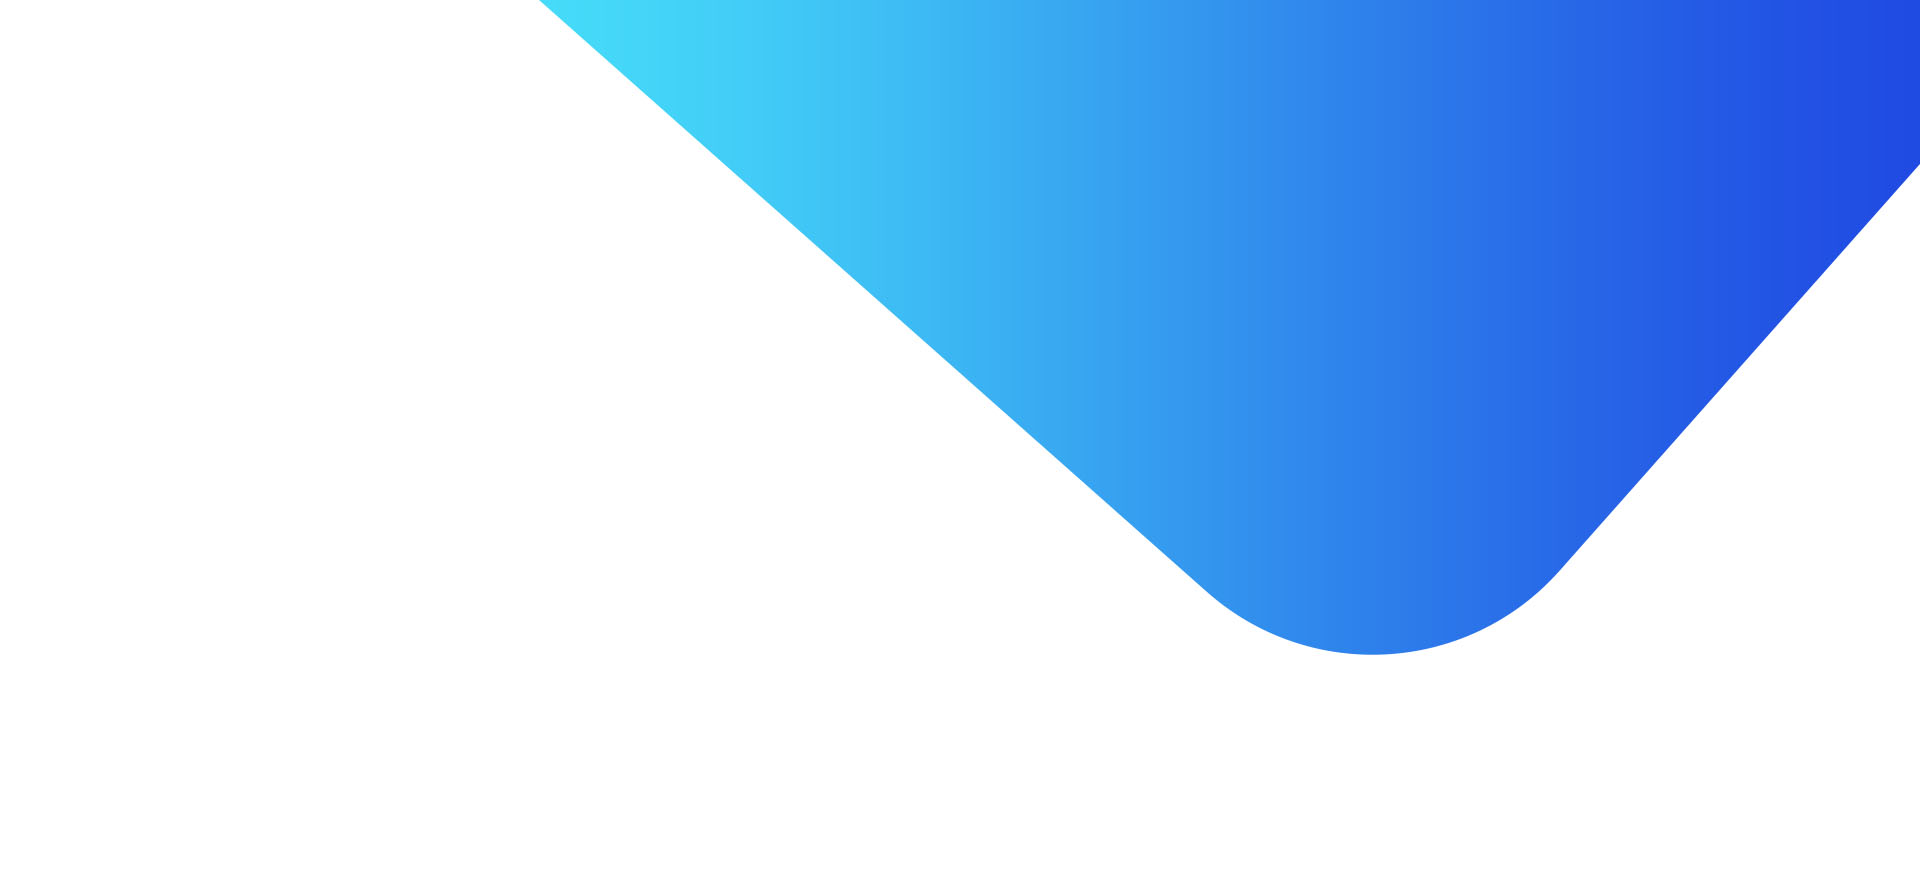
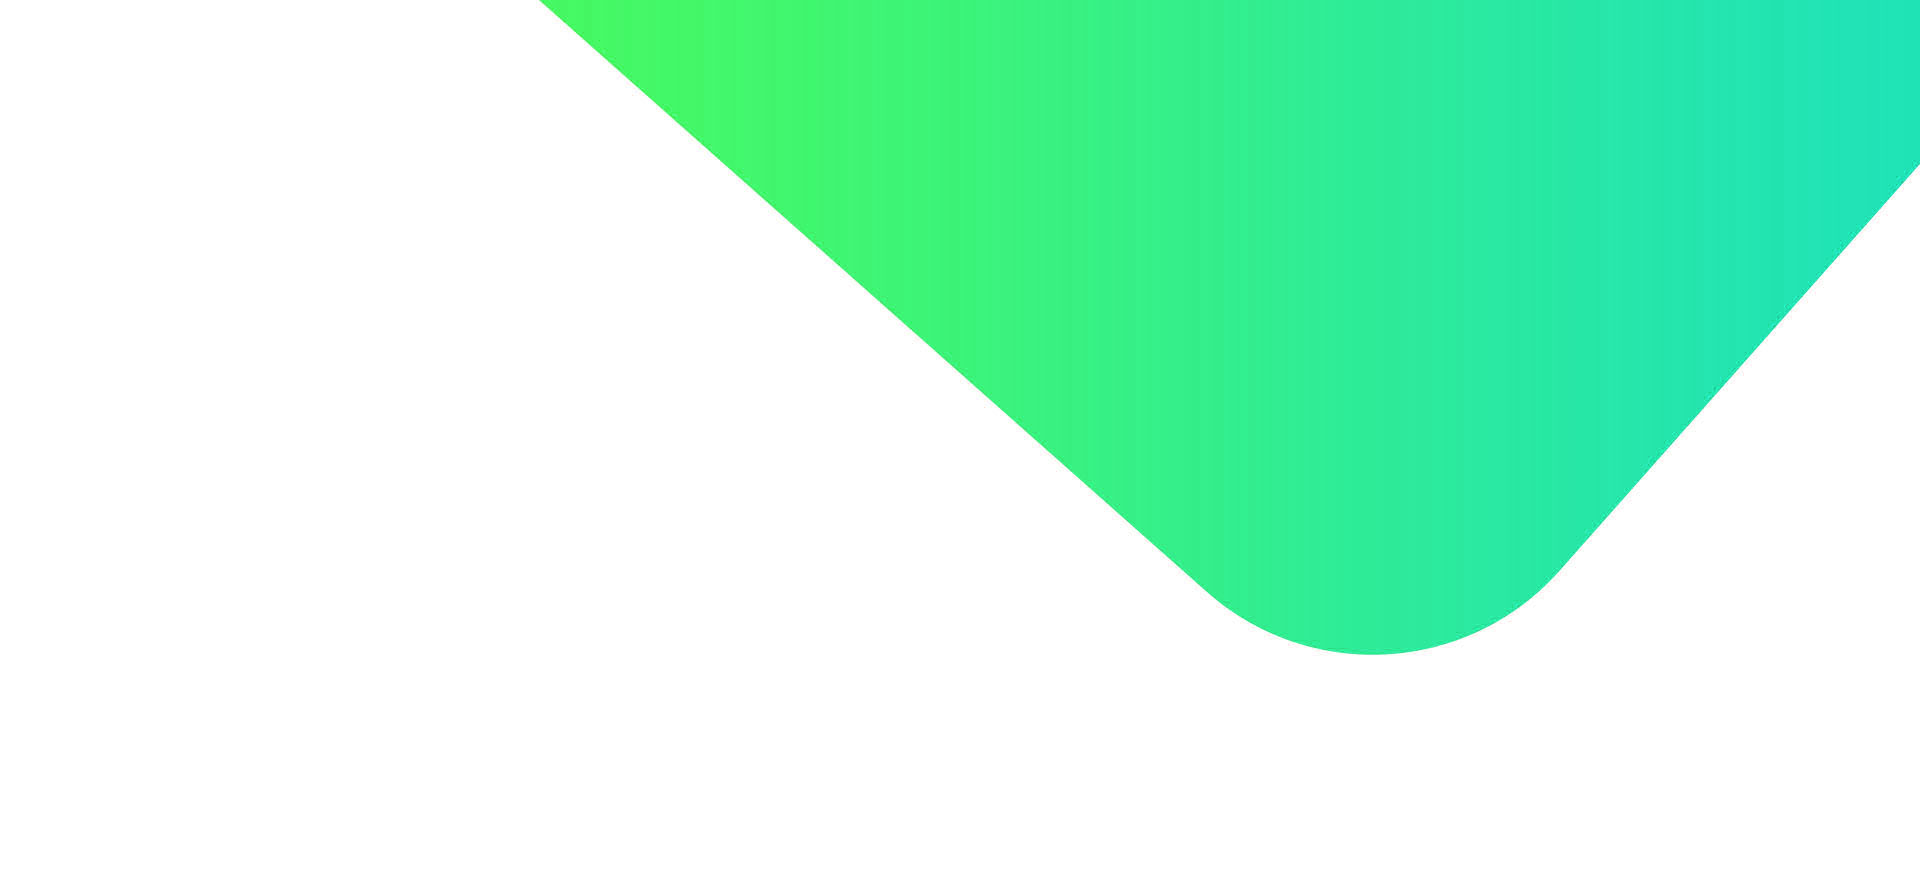
Alterando Header v1

diff --git a/css/main.css b/css/main.css
@@ -1620,9 +1620,11 @@ h1, h2, h3, h4, h5, h6 {
 # Header
 --------------------------------------------------------------*/
 .main-menu {
-  padding-top: 20px; }
+  padding-top: 20px; 
+}
   .main-menu > .row {
-    padding: 0 15px; }
+    padding: 0 15px; 
+  }
 
 #header {
   padding: 0px 0px 20px 0px;
@@ -1631,11 +1633,16 @@ h1, h2, h3, h4, h5, h6 {
   top: 0;
   right: 0;
   transition: all 0.5s;
-  z-index: 997; }
+  z-index: 997; 
+}
 
 .header-scrolled {
-  background: rgba(70, 219, 249, 0.9);
+  background: #32ed92;
   transition: all 0.5s; }
+
+#logo a img {
+  height: 30px;
+}
 
 @media (max-width: 673px) {
   #logo {
@@ -1721,20 +1728,25 @@ h1, h2, h3, h4, h5, h6 {
   margin: 0; }
 
 /* Nav Meu Styling */
-.nav-menu a {
+.nav-menu li a {
   padding: 0 18px;
   margin: 0 -2px;
   text-decoration: none;
   display: inline-block;
-  color: #fff;
+  color: #2a5c49;
   font-weight: 500;
   font-size: 15px;
   font-family: "Poppins", sans-serif;
   text-transform: capitalize;
-  outline: none; }
+  outline: none; 
+}
+  .nav-menu li a:hover {
+    color: #1d9a6a;
+  }
   .nav-menu a:last-child a {
     margin-right: 0;
-    padding-right: 0; }
+    padding-right: 0; 
+  }
 
 .nav-menu ul {
   margin: 24px 0 0 26px;
@@ -1752,7 +1764,7 @@ h1, h2, h3, h4, h5, h6 {
     font-size: 12px;
     text-transform: none; }
   .nav-menu ul li:hover a {
-    color: #46dbf9; }
+    color: #1d9a6a; }
 
 .nav-menu ul ul {
   margin: 0; }

diff --git a/index.html b/index.html
@@ -37,7 +37,7 @@
 		<div class="container main-menu">
 			<div class="row align-items-center justify-content-between d-flex">
 				<div id="logo">
-					<a href="index.html"><img src="img/logo.png" alt="" title="" /></a>
+					<a href="index.html"><img src="img/logo-color.png" alt="" title="" /></a>
 				</div>
 				<nav id="nav-menu-container">
 					<ul class="nav-menu">
